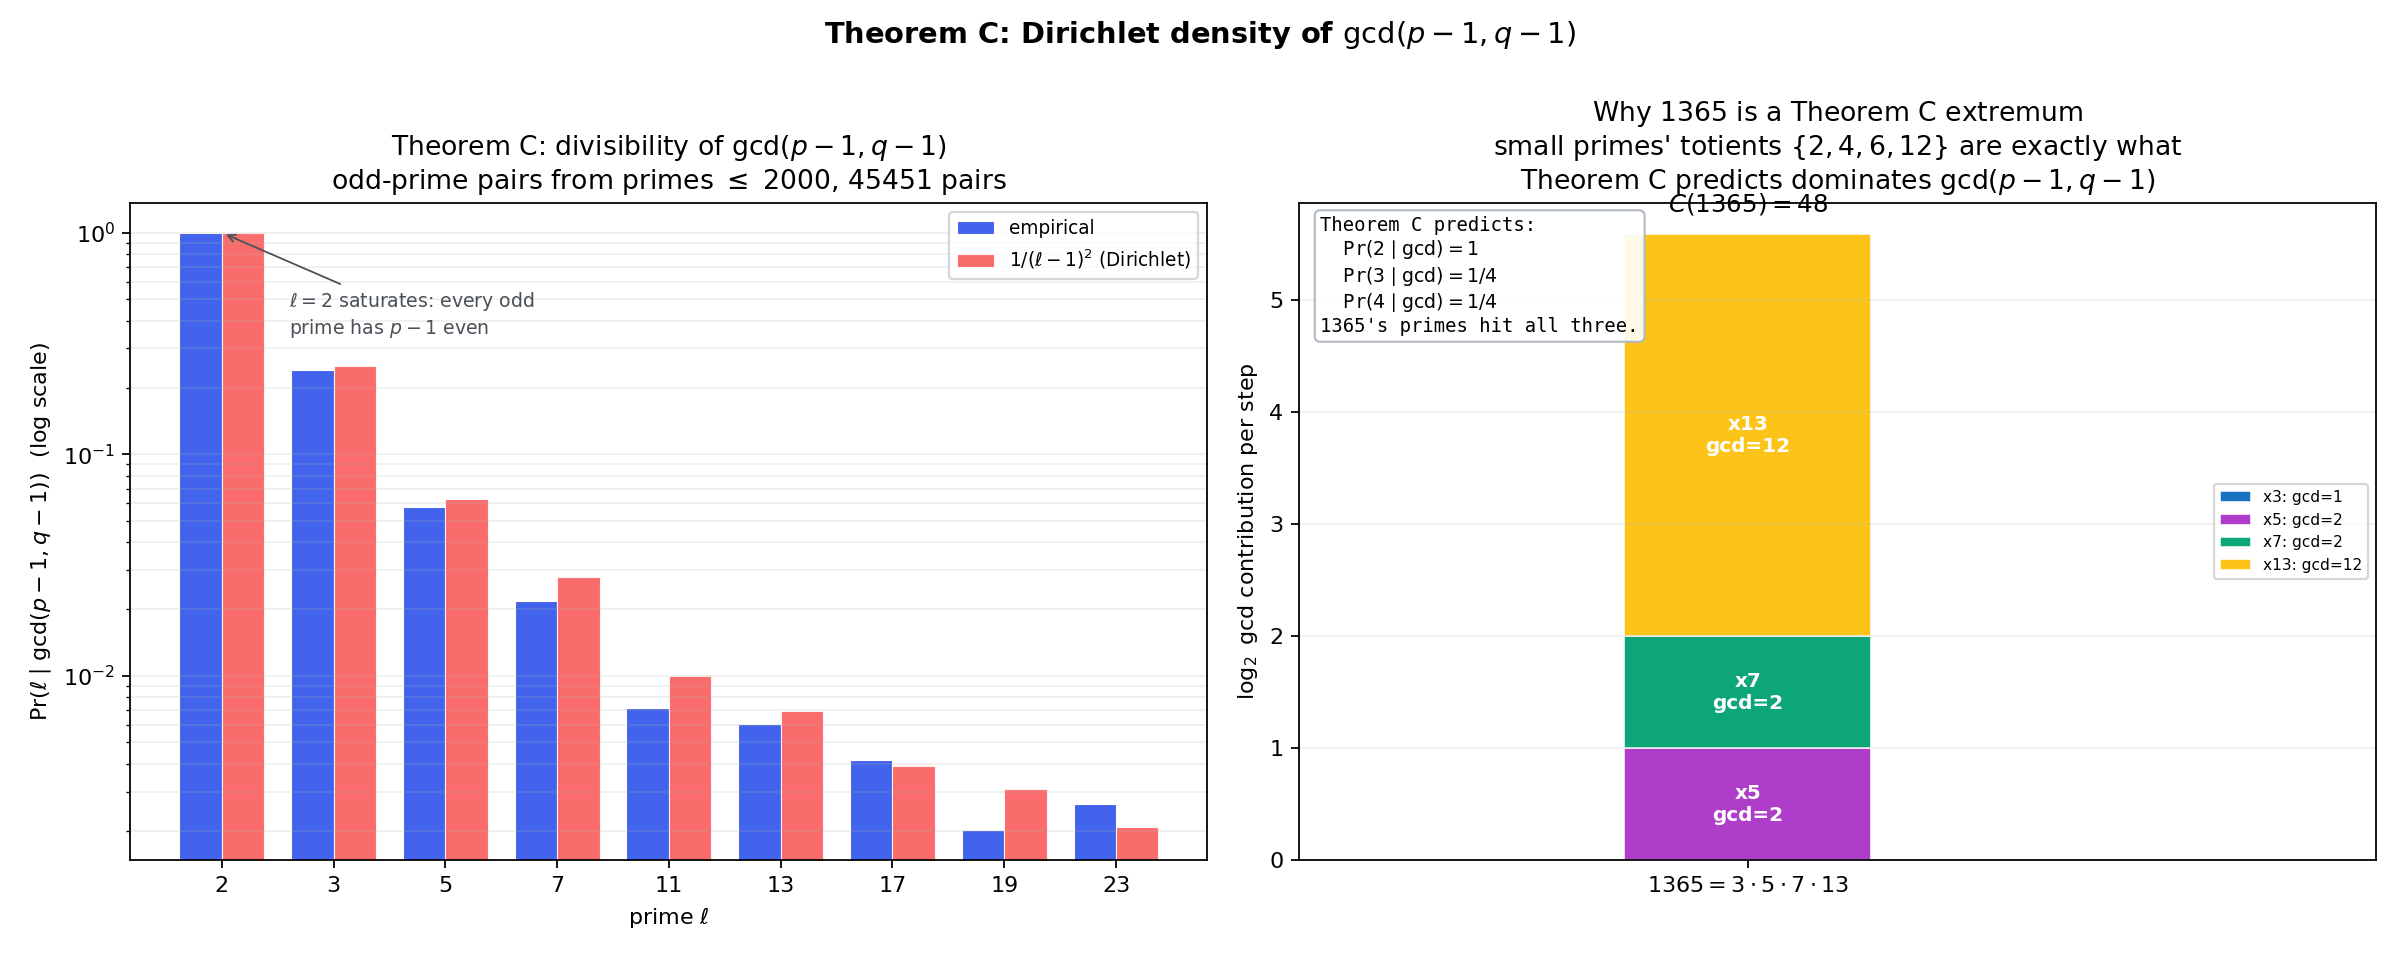
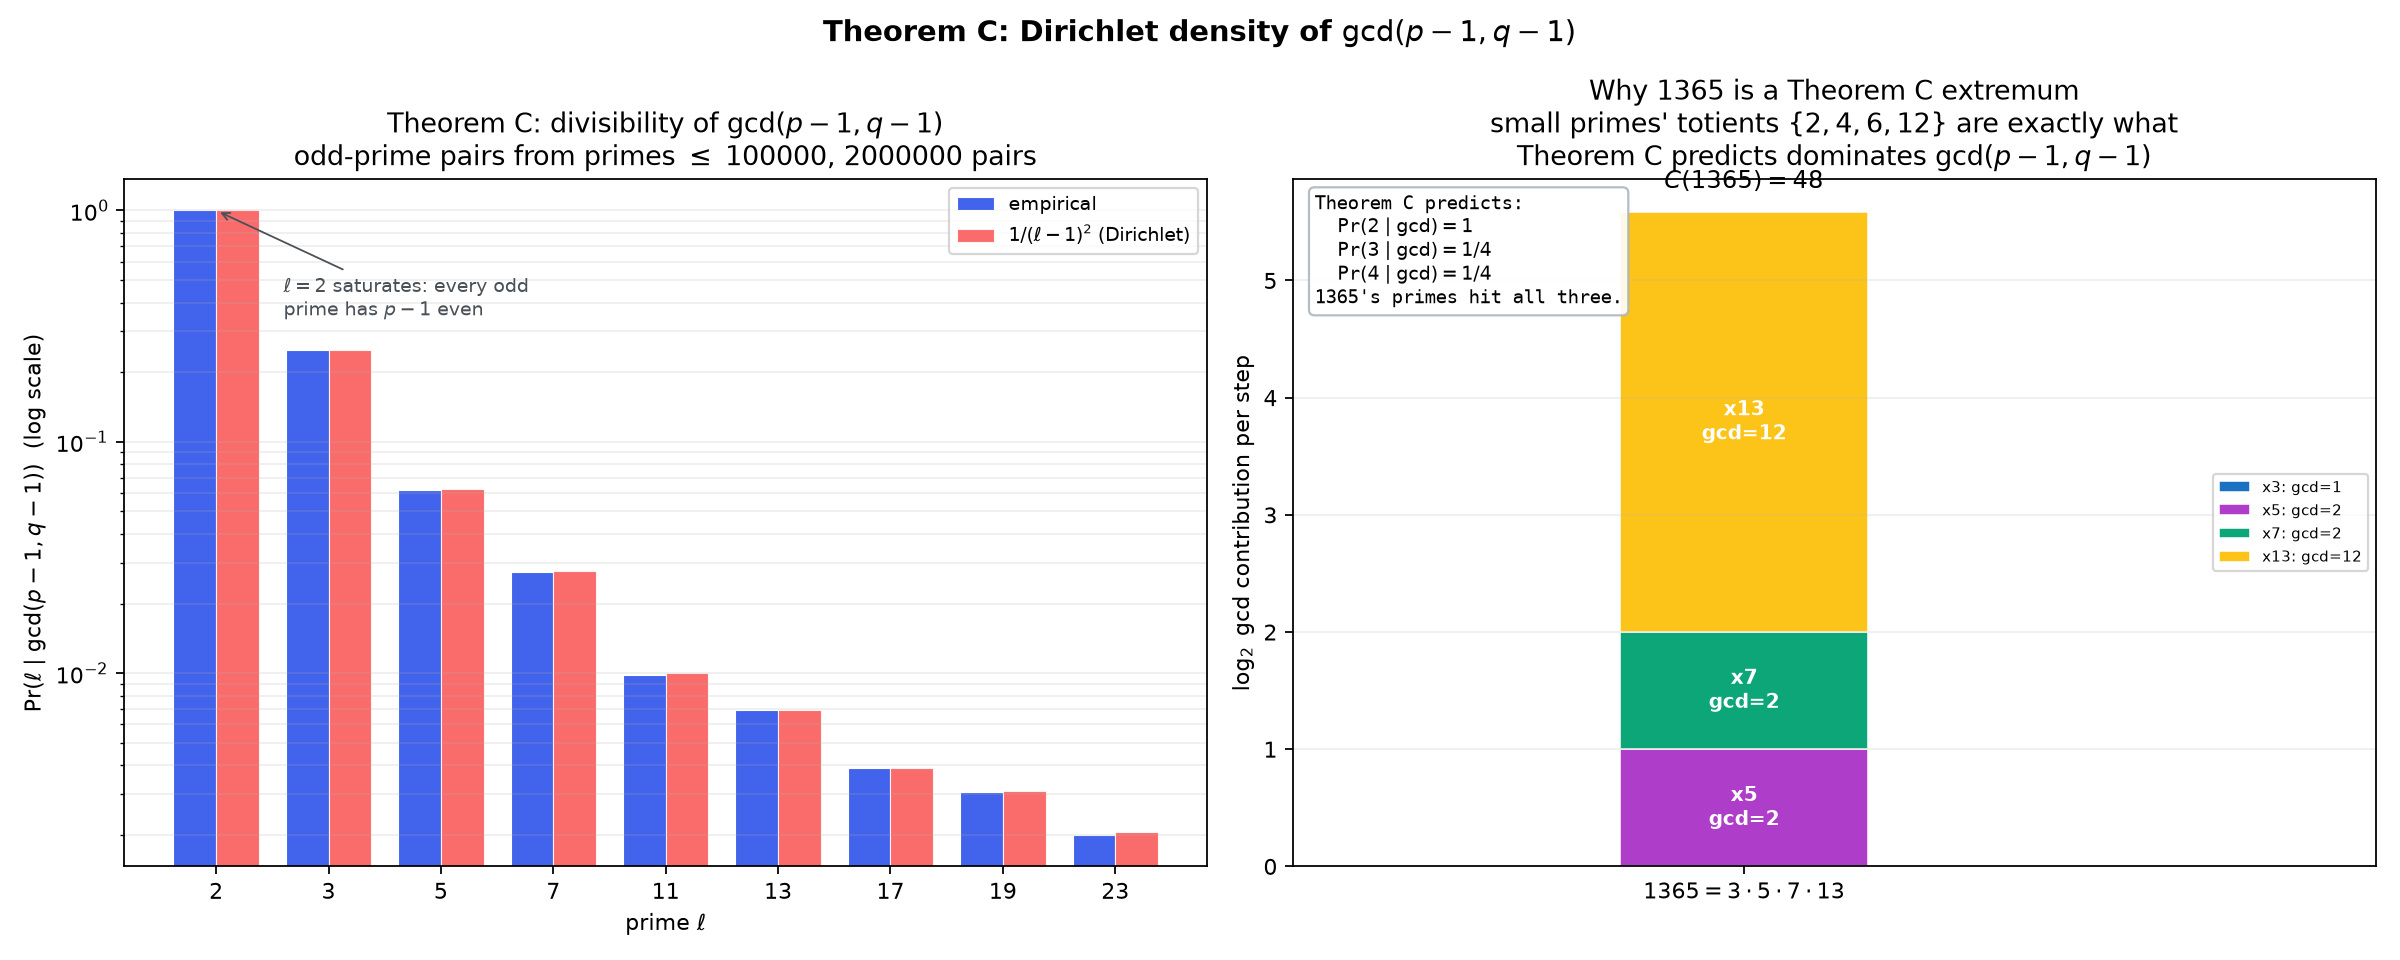
Scale up the empirical figures using the fast factorization
- collapse_at_scale.py: new sieve-based scan of C(n) to n = 10^6
  (smallest-prime-factor sieve, ~10s). Two panels: hexbin density of
  (n, C) over composites with running-max collapse records overlaid
  and labeled, and a quantile fan (median/90th/99th/max per geometric
  window) showing collapse is a tail phenomenon. Record at 10^6:
  C(959595) = 10368 with 959595 = 3*5*7*13*19*37.
- gcd_distribution_theory.py: raise the Theorem C cutoff from 2000 to
  10^5, sampling 2M fixed-seed prime pairs above the exhaustive
  threshold. Relative errors vs the Dirichlet prediction drop to ~1%.
  Regenerates gcd_distribution.png.
- tests: cross-check the sieve scan against the library's
  collapse_index and kind for n <= 2000 (skipped if matplotlib absent)
- CI: install requirements.txt so the sieve cross-check runs
- README/THEOREM.md: document the new script, add the 10^6 summary
  table and record-holder discussion

Claude-Session: https://claude.ai/code/session_01898JobGjDfsgm93YW6jH6s

diff --git a/collapse_at_scale.py b/collapse_at_scale.py
@@ -1,0 +1,211 @@
+#!/usr/bin/env python3
+"""
+collapse_at_scale.py
+
+The collapse index C(n) = phi(n)/lambda(n) scanned to n = 10^6.
+
+The per-n factorization in lambda_ratio_explorer.py is the right tool for
+individual (possibly huge) n, but a full-range scan is faster with a
+smallest-prime-factor sieve: one pass builds the factorization of every
+n <= N, from which phi and lambda follow directly.
+
+Generates a 2-panel figure: collapse_at_scale.png
+  1. Density of (n, C(n)) over all composites on log-log axes, with the
+     running-maximum "collapse records" overlaid and labeled. The record
+     holders are exactly the products of small primes with heavily shared
+     totient structure that Theorem C predicts.
+  2. Quantile fan of C(n) by scale: median, 90th, 99th percentile, and max
+     of C over geometric windows in n. The median stays in single digits
+     while the extremes explode -- collapse is a tail phenomenon.
+
+Also prints the by-kind summary table (the 10^6 version of the README
+table) and the top collapse records with factorizations.
+"""
+
+from __future__ import annotations
+
+import math
+from array import array
+
+import matplotlib.pyplot as plt
+import numpy as np
+
+from lambda_ratio_explorer import factorize
+
+N_MAX = 1_000_000
+N_QUANTILE_BINS = 40
+
+# Repo palette: blues carry magnitude (sequential, light -> dark),
+# orange marks the record trace, grays are ink.
+BLUE_SEQ = ["#74c0fc", "#339af0", "#1971c2", "#0b4a8c"]
+RECORD_COLOR = "#e8590c"
+INK = "#495057"
+
+
+def spf_sieve(limit: int) -> array:
+    """Smallest prime factor of every n <= limit."""
+    spf = array("l", range(limit + 1))
+    for i in range(2, int(limit ** 0.5) + 1):
+        if spf[i] == i:
+            for j in range(i * i, limit + 1, i):
+                if spf[j] == j:
+                    spf[j] = i
+    return spf
+
+
+def scan(limit: int) -> tuple[np.ndarray, np.ndarray]:
+    """Return (C, kind_code) arrays indexed by n.
+
+    kind_code: 0 = unit/unused, 1 = prime, 2 = prime power, 3 = composite.
+    """
+    spf = spf_sieve(limit)
+    C = np.zeros(limit + 1, dtype=np.int64)
+    kind_code = np.zeros(limit + 1, dtype=np.int8)
+    C[1] = 1
+
+    for n in range(2, limit + 1):
+        m = n
+        phi = 1
+        lam = 1
+        distinct = 0
+        while m > 1:
+            p = spf[m]
+            k = 0
+            while m % p == 0:
+                m //= p
+                k += 1
+            distinct += 1
+            phi *= (p - 1) * p ** (k - 1)
+            if p == 2 and k >= 3:
+                lam_pk = 2 ** (k - 2)
+            else:
+                lam_pk = (p - 1) * p ** (k - 1)
+            lam = lam * lam_pk // math.gcd(lam, lam_pk)
+            if distinct == 1 and m == 1:
+                kind_code[n] = 1 if k == 1 else 2
+        if kind_code[n] == 0:
+            kind_code[n] = 3
+        C[n] = phi // lam
+    return C, kind_code
+
+
+def collapse_records(C: np.ndarray) -> list[tuple[int, int]]:
+    """(n, C(n)) points where C sets a new running maximum."""
+    records = []
+    best = 0
+    for n in range(2, len(C)):
+        if C[n] > best:
+            best = int(C[n])
+            records.append((n, best))
+    return records
+
+
+def print_summary(C: np.ndarray, kind_code: np.ndarray) -> None:
+    names = {1: "prime", 2: "prime_power", 3: "composite"}
+    print(f"\nCollapse index C(n) = phi(n)/lambda(n) over n in [2, {len(C) - 1}]\n")
+    print(f"  {'kind':<12} {'count':>8} {'mean C':>9} {'median C':>9} {'max C':>8} {'frac C=1':>9}")
+    for code, name in names.items():
+        vals = C[2:][kind_code[2:] == code]
+        print(f"  {name:<12} {len(vals):>8} {vals.mean():>9.2f} {int(np.median(vals)):>9} "
+              f"{vals.max():>8} {(vals == 1).mean():>9.3f}")
+
+    print("\nTop collapse records:")
+    records = collapse_records(C)
+    for n, c in records[-10:]:
+        factors = " * ".join(
+            (f"{p}^{k}" if k > 1 else str(p)) for p, k in factorize(n).items()
+        )
+        print(f"  C({n:>7}) = {c:>5}   {n} = {factors}")
+
+
+def panel_density(ax: plt.Axes, C: np.ndarray, kind_code: np.ndarray) -> None:
+    comp = np.flatnonzero(kind_code == 3)
+    x = np.log10(comp.astype(np.float64))
+    y = np.log2(C[comp].astype(np.float64))
+
+    hb = ax.hexbin(x, y, gridsize=60, cmap="Blues", bins="log", mincnt=1,
+                   linewidths=0.1)
+    cb = plt.colorbar(hb, ax=ax, pad=0.01)
+    cb.set_label("composites per cell (log scale)", fontsize=8.5)
+
+    records = collapse_records(C)
+    rx = [math.log10(n) for n, _ in records]
+    ry = [math.log2(c) for _, c in records]
+    ax.plot(rx, ry, color=RECORD_COLOR, lw=1.4, zorder=3,
+            drawstyle="steps-post", label="running max of $C$")
+    ax.scatter(rx, ry, color=RECORD_COLOR, s=22, zorder=4,
+               edgecolor="white", linewidth=0.6)
+    # Label a spread of records: the final one plus two mid-scale ones,
+    # so annotations never pile up in the top-right corner.
+    labeled = {records[-1]}
+    for frac in (0.5, 0.78):
+        target = frac * math.log10(records[-1][0])
+        labeled.add(min(records, key=lambda r: abs(math.log10(r[0]) - target)))
+    for n, c in labeled:
+        ax.annotate(f"$C({n}) = {c}$", (math.log10(n), math.log2(c)),
+                    xytext=(-8, 6), textcoords="offset points",
+                    ha="right", fontsize=8.5, color=INK)
+
+    xticks = range(1, 7)
+    ax.set_xticks(list(xticks))
+    ax.set_xticklabels([f"$10^{k}$" for k in xticks])
+    yticks = range(0, int(max(ry)) + 2, 2)
+    ax.set_yticks(list(yticks))
+    ax.set_yticklabels([f"{2 ** k}" for k in yticks])
+    ax.set_xlabel("$n$")
+    ax.set_ylabel("$C(n)$")
+    ax.set_title("Collapse of composites to $n = 10^6$\n"
+                 "density of $(n, C)$ with record collapses overlaid")
+    ax.grid(True, alpha=0.15)
+    ax.legend(loc="upper left", fontsize="small")
+
+
+def panel_quantile_fan(ax: plt.Axes, C: np.ndarray, kind_code: np.ndarray) -> None:
+    comp = np.flatnonzero(kind_code == 3)
+    Cc = C[comp].astype(np.float64)
+    edges = np.geomspace(comp[0], len(C) - 1, N_QUANTILE_BINS + 1)
+
+    quantiles = [(0.50, "median", BLUE_SEQ[0]),
+                 (0.90, "90th pct", BLUE_SEQ[1]),
+                 (0.99, "99th pct", BLUE_SEQ[2]),
+                 (1.00, "max", BLUE_SEQ[3])]
+    centers = np.sqrt(edges[:-1] * edges[1:])
+    for q, label, color in quantiles:
+        ys = []
+        for lo, hi in zip(edges[:-1], edges[1:]):
+            window = Cc[(comp >= lo) & (comp < hi)]
+            ys.append(np.quantile(window, q) if len(window) else np.nan)
+        ax.plot(centers, ys, color=color, lw=1.8)
+        ax.annotate(label, (centers[-1], ys[-1]), xytext=(6, 0),
+                    textcoords="offset points", va="center",
+                    fontsize=8.5, color=INK)
+
+    ax.set_xscale("log")
+    ax.set_yscale("log", base=2)
+    ax.set_xlabel("$n$ (geometric windows)")
+    ax.set_ylabel("$C(n)$ quantile within window")
+    ax.set_title("Collapse is a tail phenomenon\n"
+                 "the median composite barely collapses; the extremes explode")
+    ax.grid(True, which="both", alpha=0.15)
+    ax.set_xlim(centers[0], centers[-1] * 3.2)
+
+
+def main() -> None:
+    print(f"sieving and scanning to {N_MAX} ...")
+    C, kind_code = scan(N_MAX)
+    print_summary(C, kind_code)
+
+    fig, axes = plt.subplots(1, 2, figsize=(15, 6.2))
+    fig.suptitle("Collapse index $C(n) = \\varphi(n)/\\lambda(n)$ at scale",
+                 fontsize=13, fontweight="bold")
+    panel_density(axes[0], C, kind_code)
+    panel_quantile_fan(axes[1], C, kind_code)
+
+    fig.tight_layout()
+    out = "collapse_at_scale.png"
+    fig.savefig(out, dpi=160)
+    print(f"\nWrote {out}")
+
+
+if __name__ == "__main__":
+    main()

diff --git a/gcd_distribution_theory.py b/gcd_distribution_theory.py
@@ -12,8 +12,10 @@ and any prime l,
 This script:
   1. Sieves odd primes up to a configurable limit.
   2. For l in {2, 3, 5, 7, 11, 13, 17, 19, 23} computes empirical
-     Pr( l | gcd(p - 1, q - 1) ) over all distinct odd prime pairs and
-     compares to the Dirichlet prediction 1/(l-1)^2.
+     Pr( l | gcd(p - 1, q - 1) ) over distinct odd prime pairs and
+     compares to the Dirichlet prediction 1/(l-1)^2. Below a size
+     threshold all pairs are enumerated; above it a fixed-seed random
+     sample of pairs is used so the cutoff can be pushed to 10^5.
   3. Computes empirical E[gcd(p - 1, q - 1)] and the truncated heuristic
      sum_{d <= D} 1/phi(d), which grows like A log D with
      A = 315 zeta(3) / (2 pi^4).
@@ -30,6 +32,7 @@ at a glance.
 from __future__ import annotations
 
 import math
+import random
 from typing import Iterable
 
 import matplotlib.pyplot as plt
@@ -41,8 +44,14 @@ from lambda_ratio_explorer import (
 )
 
 
-PRIME_LIMIT = 2000
+PRIME_LIMIT = 100_000
 TARGET_PRIMES: list[int] = [2, 3, 5, 7, 11, 13, 17, 19, 23]
+
+# Above this many pairs, sample instead of enumerating. The seed is fixed
+# so the table and figure are reproducible run to run.
+MAX_EXHAUSTIVE_PAIRS = 2_000_000
+SAMPLE_PAIRS = 2_000_000
+SAMPLE_SEED = 20260711
 
 # Mean-totient-reciprocal constant A = 315 zeta(3) / (2 pi^4),
 # governing the asymptotic sum_{d <= X} 1/phi(d) ~ A log X.
@@ -61,21 +70,37 @@ def primes_up_to(limit: int) -> list[int]:
     return [i for i, b in enumerate(sieve) if b]
 
 
+def _pair_stream(primes: list[int]) -> Iterable[tuple[int, int]]:
+    """Distinct prime pairs: exhaustive when small, sampled when large."""
+    n = len(primes)
+    if n * (n - 1) // 2 <= MAX_EXHAUSTIVE_PAIRS:
+        for i, p in enumerate(primes):
+            for q in primes[i + 1:]:
+                yield p, q
+        return
+    rng = random.Random(SAMPLE_SEED)
+    for _ in range(SAMPLE_PAIRS):
+        i = rng.randrange(n)
+        j = rng.randrange(n - 1)
+        if j >= i:
+            j += 1
+        yield primes[i], primes[j]
+
+
 def empirical_divisibility_rates(
     primes: list[int], target_ells: Iterable[int]
 ) -> tuple[dict[int, float], int, float]:
-    """Return (empirical Pr(l | gcd) per l, total pair count, empirical mean gcd)."""
+    """Return (empirical Pr(l | gcd) per l, pair count used, empirical mean gcd)."""
     counts = {l: 0 for l in target_ells}
     pair_total = 0
     gcd_sum = 0
-    for i, p in enumerate(primes):
-        for q in primes[i + 1:]:
-            g = math.gcd(p - 1, q - 1)
-            pair_total += 1
-            gcd_sum += g
-            for l in counts:
-                if g % l == 0:
-                    counts[l] += 1
+    for p, q in _pair_stream(primes):
+        g = math.gcd(p - 1, q - 1)
+        pair_total += 1
+        gcd_sum += g
+        for l in counts:
+            if g % l == 0:
+                counts[l] += 1
     rates = {l: counts[l] / pair_total for l in counts}
     mean_gcd = gcd_sum / pair_total
     return rates, pair_total, mean_gcd

diff --git a/tests/test_core.py b/tests/test_core.py
@@ -206,6 +206,18 @@ class TestIsCarmichael:
         assert is_carmichael(n) == expected
 
 
+class TestCollapseAtScaleScan:
+    def test_sieve_scan_matches_library(self):
+        pytest.importorskip("matplotlib")
+        from collapse_at_scale import scan
+
+        C, kind_code = scan(2000)
+        kind_names = {1: "prime", 2: "prime_power", 3: "composite"}
+        for n in range(2, 2001):
+            assert C[n] == collapse_index(n)
+            assert kind_names[kind_code[n]] == kind(n)
+
+
 class TestKind:
     def test_classification(self):
         assert kind(7) == "prime"

diff --git a/README.md b/README.md
@@ -121,14 +121,32 @@ python propagation.py
 ### Distribution of `gcd(p-1, q-1)` (`gcd_distribution_theory.py`)
 
 Empirical verification of Theorem C. Computes the divisibility rate
-`Pr(l | gcd(p-1, q-1))` over all distinct odd-prime pairs up to a
-configurable cutoff and compares it to the Dirichlet prediction
-`1/(l-1)^2`. Also prints the empirical mean gcd alongside the
-asymptotic estimate `A log X` with `A = 315 zeta(3) / (2 pi^4) ~ 1.94`.
+`Pr(l | gcd(p-1, q-1))` over distinct odd-prime pairs up to a
+configurable cutoff (`10^5` by default, switching to a fixed-seed
+random sample of 2M pairs above the exhaustive threshold) and compares
+it to the Dirichlet prediction `1/(l-1)^2`. At the `10^5` cutoff the
+relative errors are around a percent. Also prints the empirical mean
+gcd alongside the asymptotic estimate `A log X` with
+`A = 315 zeta(3) / (2 pi^4) ~ 1.94`.
 
 ```bash
 python gcd_distribution_theory.py
 # -> gcd_distribution.png
+```
+
+### Collapse at scale (`collapse_at_scale.py`)
+
+The full-range scan of `C(n)` to `n = 10^6`, using a smallest-prime-factor
+sieve (one pass factors every n at once, so the scan takes seconds).
+Produces a 2-panel figure: the density of `(n, C)` over all composites
+with the running-maximum "collapse records" overlaid and labeled, and a
+quantile fan (median / 90th / 99th / max of `C` by geometric window)
+showing that collapse is a tail phenomenon. Prints the by-kind summary
+table and the top records with factorizations.
+
+```bash
+python collapse_at_scale.py
+# -> collapse_at_scale.png
 ```
 
 ### PDF of the theorem note (`render_theorem.ps1`)
@@ -158,6 +176,21 @@ products of small primes whose `(p_i - 1)` shares many common factors
 
 The Hardy-Ramanujan number `1729 = 7 * 13 * 19` shows up near the top:
 it is also a Carmichael number, and large `C` is part of why.
+
+Scaling up with `collapse_at_scale.py` over `n in [2, 10^6]`:
+
+| kind         | count  | mean C | median C | max C | fraction with C=1 |
+| ------------ | ------ | ------ | -------- | ----- | ----------------- |
+| prime        | 78498  | 1.00   | 1        | 1     | 1.000             |
+| prime_power  | 236    | 1.07   | 1        | 2     | 0.928             |
+| composite    | 921265 | 36.22  | 8        | 10368 | 0.045             |
+
+The record holder below `10^6` is `959595 = 3 * 5 * 7 * 13 * 19 * 37`
+with `C = 10368` -- the same story as `1365`, two primes deeper: the
+totients `2, 4, 6, 12, 18, 36` all divide each other's lattice. The
+median composite has `C = 8` while the maximum is `10368`, i.e. the
+mean is dragged by a thin tail of heavily-shared-structure numbers;
+the quantile fan in `collapse_at_scale.png` makes this visible.
 
 ## Cryptographic interpretation
 
@@ -200,6 +233,7 @@ identity at runtime, so they double as tests for the theorem in
 | `wedge_envelopes.py`       | Algebraic envelope visualization                        |
 | `propagation.py`           | Iterative demo of the collapse propagation theorem      |
 | `gcd_distribution_theory.py` | Empirical verification of Theorem C                   |
+| `collapse_at_scale.py`     | Sieve-based scan of `C(n)` to `10^6`, records + quantiles |
 | `THEOREM.md`               | Wedge, propagation, and Dirichlet-density identities    |
 | `render_theorem.ps1`       | Pandoc helper that renders `THEOREM.md` to `theorem.pdf`|
 | `requirements.txt`         | `matplotlib` (pulls in numpy)                           |

diff --git a/THEOREM.md b/THEOREM.md
@@ -287,6 +287,7 @@ multiplicative law shown at three scales:
 | `order_distributions.png`  | The parallel-cycle picture inside specific $n$, with explicit invariant factors. |
 | `propagation.png`          | Theorem 2 made visible: stacked $\log_2 \gcd$ contributions per prime, plus the empirical density of $\gcd(p - 1, q - 1)$. |
 | `gcd_distribution.png`     | Theorem C made visible: empirical vs Dirichlet-predicted divisibility rates, plus the $1365$ tie-back. |
+| `collapse_at_scale.png`    | The whole story to $n = 10^6$: collapse records (the $1365$-style extremes, deeper) and the quantile fan showing collapse is a tail phenomenon. |
 
 ## 10. Honest scope
 